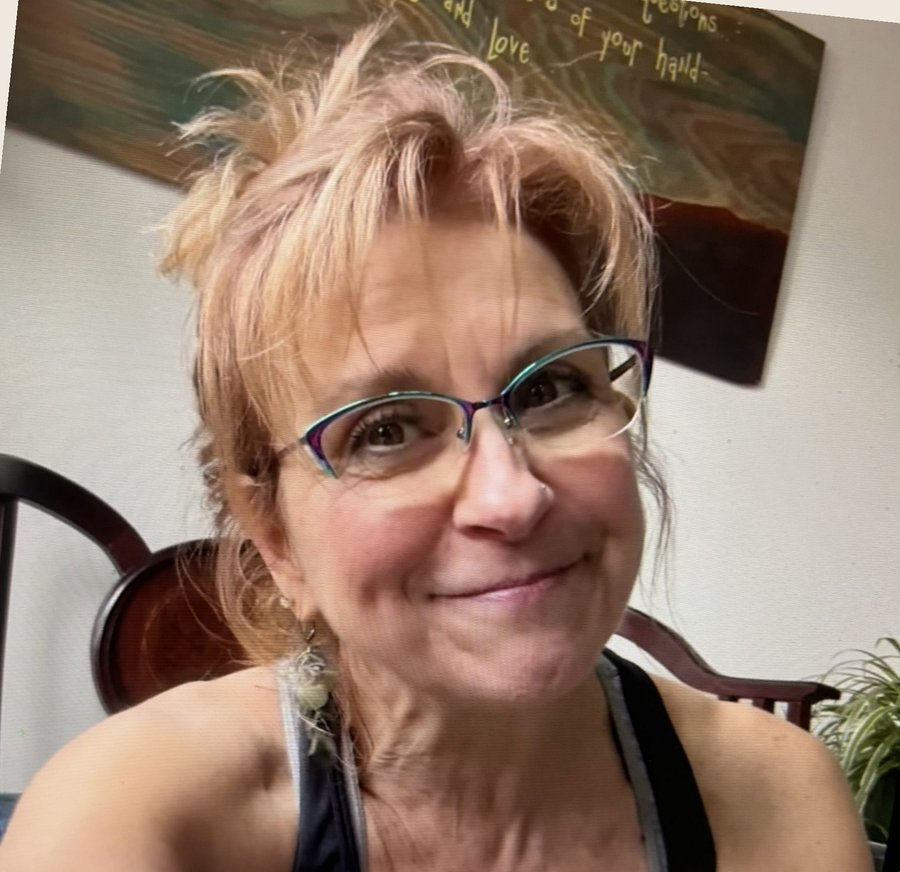
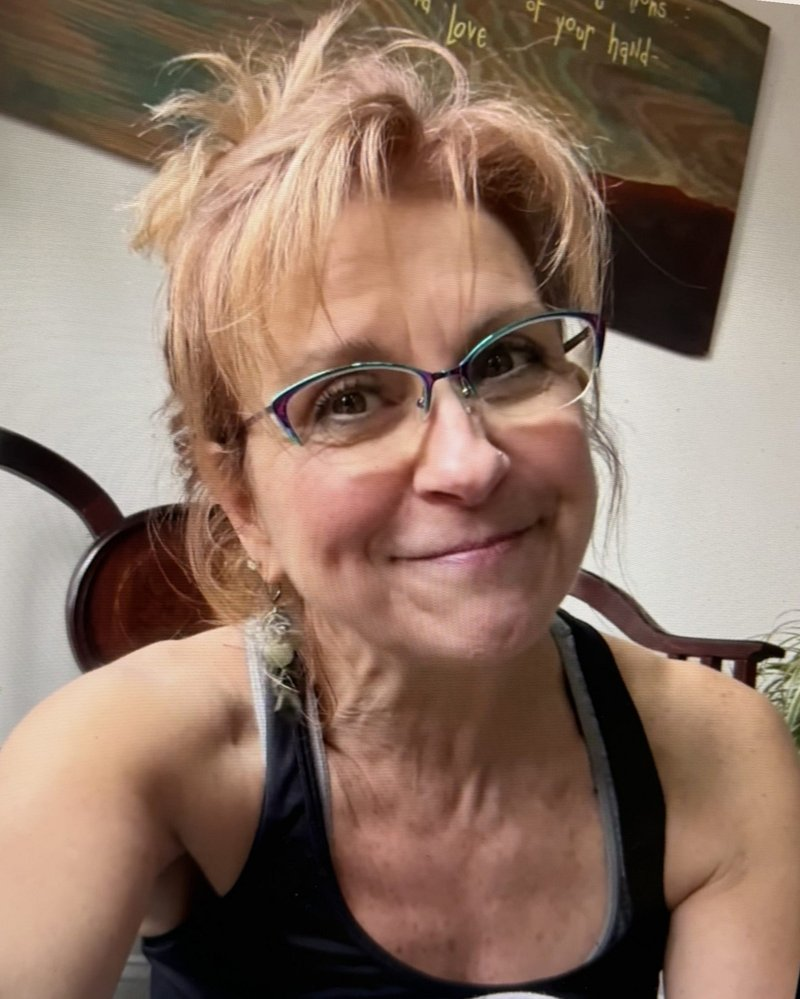
Add files via upload

diff --git a/contact.html b/contact.html
@@ -4,52 +4,22 @@
   <meta charset="UTF-8">
   <meta name="viewport" content="width=device-width, initial-scale=1.0">
   <title>Contact | Denise Souza Integrative Wellness</title>
-  <meta name="description" content="Schedule your free 15-minute consultation with Denise Souza. Get directions, download new client forms, and join the mailing list.">
+  <meta name="description" content="Visit Denise Souza Integrative Wellness in Raleigh, NC. Located inside Health House The Collaborative. Schedule your free consultation by appointment.">
   <link rel="stylesheet" href="css/style.css">
   <style>
     .contact-section {
       background: var(--white);
-      padding: 3.5rem 3rem;
+      padding: 2.5rem;
       display: grid;
-      grid-template-columns: 1fr 1fr;
-      gap: 3rem;
-    }
-    .contact-form label {
-      font-family: Arial, sans-serif;
-      font-size: 11px;
-      letter-spacing: 0.08em;
-      text-transform: uppercase;
-      color: var(--taupe-dark);
-      display: block;
-      margin-bottom: 0.4rem;
-      margin-top: 1.1rem;
-    }
-    .contact-form label:first-child {
-      margin-top: 0;
-    }
-    .contact-form input,
-    .contact-form textarea {
-      width: 100%;
-      font-family: Arial, sans-serif;
-      font-size: 14px;
-      padding: 10px 12px;
-      border: 1px solid var(--taupe);
-      border-radius: 3px;
-      background: var(--cream);
-      color: var(--charcoal);
-    }
-    .contact-form textarea {
-      min-height: 110px;
-      resize: vertical;
-    }
-    .contact-form button {
-      margin-top: 1.5rem;
+      grid-template-columns: repeat(auto-fit, minmax(220px, 1fr));
+      gap: 16px;
+      max-width: 1000px;
+      margin: 0 auto;
     }
     .contact-info-block {
       background: var(--taupe-light);
       border-radius: 4px;
-      padding: 1.75rem;
-      margin-bottom: 1.25rem;
+      padding: 1.5rem;
     }
     .contact-info-block h4 {
       font-family: Arial, sans-serif;
@@ -65,8 +35,23 @@
       color: var(--charcoal);
       line-height: 1.6;
     }
+    .contact-info-block a {
+      color: var(--terra-dark);
+      text-decoration: underline;
+    }
+    .contact-info-block .sub-note {
+      font-size: 12px;
+      color: var(--taupe-dark);
+      margin-top: 0.25rem;
+    }
     .contact-info-block a.btn-outline {
       margin-top: 0.75rem;
+      text-decoration: none;
+    }
+    .map-embed {
+      width: 100%;
+      border: 0;
+      display: block;
     }
   </style>
 </head>
@@ -101,50 +86,30 @@
     <p>Every new client begins with a free 15-minute consultation. No pressure, no commitment.</p>
   </section>
 
-  <!-- CONTACT FORM + INFO -->
+  <!-- CONTACT INFO -->
   <section class="contact-section">
-    <div class="contact-form">
-      <div class="section-label">Send a message</div>
-      <h2 style="font-size: 22px; font-weight: normal; color: var(--charcoal); margin-bottom: 1rem;">Request your free consultation</h2>
-      <form>
-        <label for="name">Name</label>
-        <input type="text" id="name" name="name" placeholder="Your full name">
-
-        <label for="email">Email</label>
-        <input type="email" id="email" name="email" placeholder="[email redacted]">
-
-        <label for="phone">Phone</label>
-        <input type="tel" id="phone" name="phone" placeholder="(___) ___-____">
-
-        <label for="message">What brings you here?</label>
-        <textarea id="message" name="message" placeholder="Tell Denise a little about what you're looking for..."></textarea>
-
-        <button type="submit" class="btn-primary">Send message</button>
-      </form>
+    <div class="contact-info-block">
+      <h4>Location</h4>
+      <p>6837 Falls of Neuse Rd, Ste 106<br>Raleigh, NC 27615</p>
+      <p class="sub-note">Located inside Health House The Collaborative</p>
     </div>
-
-    <div class="contact-details">
-      <div class="contact-info-block">
-        <h4>Location</h4>
-        <p>[ Office address &mdash; Raleigh, NC ]</p>
-      </div>
-      <div class="contact-info-block">
-        <h4>Phone</h4>
-        <p>[ Phone number ]</p>
-      </div>
-      <div class="contact-info-block">
-        <h4>Email</h4>
-        <p>[ Email address ]</p>
-      </div>
-      <div class="contact-info-block">
-        <h4>Office hours</h4>
-        <p>[ Hours by appointment ]</p>
-      </div>
-      <div class="contact-info-block">
-        <h4>New clients</h4>
-        <p>Please print, fill out, and bring your patient intake forms to your appointment, or plan to arrive 15 minutes early to complete them in the office.</p>
-        <a class="btn-outline" href="#">Download new client forms</a>
-      </div>
+    <div class="contact-info-block">
+      <h4>Phone</h4>
+      <p><a href="tel:9196008840">919-600-8840</a></p>
+      <p class="sub-note">No fax</p>
+    </div>
+    <div class="contact-info-block">
+      <h4>Email</h4>
+      <p><a href="mailto:[email redacted]">[email redacted]</a></p>
+    </div>
+    <div class="contact-info-block">
+      <h4>Hours</h4>
+      <p>By appointment only</p>
+    </div>
+    <div class="contact-info-block" style="grid-column: 1 / -1;">
+      <h4>New clients</h4>
+      <p>Please print, fill out, and bring your patient intake forms to your appointment, or plan to arrive 15 minutes early to complete them in the office.</p>
+      <a class="btn-outline" href="https://www.denisesouzaintegrativewellness.com/wp-content/uploads/2021/10/combined_intake_form_1.pdf" target="_blank" rel="noopener">Download new client forms</a>
     </div>
   </section>
 
@@ -156,12 +121,20 @@
 
   <section class="cta-section" style="grid-template-columns: 1fr; text-align: center;">
     <div class="cta-text" style="max-width: 420px; margin: 0 auto;">
-      <a class="btn-primary" href="#">Join the mailing list</a>
+      <a class="btn-primary" href="mailto:[email redacted]?subject=Mailing%20List%20Sign-Up">Join the mailing list</a>
     </div>
   </section>
 
-  <!-- MAP PLACEHOLDER -->
-  <section class="about-img placeholder-img" style="min-height: 280px;"><img src="images/office-exterior.jpg" alt="Office location" onerror="this.parentElement.innerHTML='[ Map / office location ]'"></section>
+  <!-- MAP -->
+  <section>
+    <iframe
+      class="map-embed"
+      height="320"
+      loading="lazy"
+      referrerpolicy="no-referrer-when-downgrade"
+      src="https://www.google.com/maps?q=6837+Falls+of+Neuse+Rd+Ste+106,+Raleigh,+NC+27615&output=embed">
+    </iframe>
+  </section>
 
   <!-- FOOTER -->
   <footer>
@@ -182,8 +155,8 @@
     <div class="footer-col">
       <h4>Connect</h4>
       <a href="contact.html">Free 15-min Consultation</a>
-      <a href="contact.html">New Client Forms</a>
-      <a href="contact.html">Join Mailing List</a>
+      <a href="https://www.denisesouzaintegrativewellness.com/wp-content/uploads/2021/10/combined_intake_form_1.pdf" target="_blank" rel="noopener">New Client Forms</a>
+      <a href="mailto:[email redacted]?subject=Mailing%20List%20Sign-Up">Join Mailing List</a>
     </div>
   </footer>
   <div class="footer-bottom">

diff --git a/css/style.css b/css/style.css
@@ -142,10 +142,19 @@ nav {
   border-radius: 4px;
   min-width: 180px;
   padding: 6px 0;
-  margin-top: 12px;
+  margin-top: 0;
   box-shadow: 0 6px 16px rgba(61, 46, 34, 0.08);
   list-style: none;
   z-index: 200;
+}
+
+.dropdown-menu::before {
+  content: "";
+  position: absolute;
+  top: -12px;
+  left: 0;
+  right: 0;
+  height: 12px;
 }
 
 .has-dropdown:hover .dropdown-menu,
@@ -282,6 +291,7 @@ nav {
 .hero-image {
   background: var(--terra-light);
   min-height: 240px;
+  max-height: 380px;
 }
 
 /* ============================================
@@ -315,13 +325,16 @@ nav {
 .about-section {
   background: var(--white);
   display: grid;
-  grid-template-columns: 1fr 1fr;
+  grid-template-columns: 0.85fr 1.15fr;
 }
 
 .about-img {
   background: var(--taupe-light);
+  aspect-ratio: 4 / 5;
   min-height: 260px;
-  max-height: 340px;
+  max-height: 460px;
+  width: 100%;
+  margin: 0 auto;
 }
 
 .about-text {
@@ -407,7 +420,7 @@ nav {
 }
 
 .service-card-img {
-  height: 96px;
+  height: 170px;
 }
 
 .service-card-body {
@@ -504,6 +517,7 @@ nav {
 .rooted-image {
   background: var(--terra-light);
   min-height: 260px;
+  max-height: 380px;
 }
 
 /* ============================================

diff --git a/about.html b/about.html
@@ -84,7 +84,7 @@
       <div class="cta-card">
         <div class="cta-card-icon">&#128222;</div>
         <h4>Phone</h4>
-        <p>Call to book</p>
+        <p><a href="tel:9196008840" style="color: inherit; text-decoration: underline;">919-600-8840</a></p>
       </div>
       <div class="cta-card">
         <div class="cta-card-icon">&#128337;</div>
@@ -118,8 +118,8 @@
     <div class="footer-col">
       <h4>Connect</h4>
       <a href="contact.html">Free 15-min Consultation</a>
-      <a href="contact.html">New Client Forms</a>
-      <a href="contact.html">Join Mailing List</a>
+      <a href="https://www.denisesouzaintegrativewellness.com/wp-content/uploads/2021/10/combined_intake_form_1.pdf" target="_blank" rel="noopener">New Client Forms</a>
+      <a href="mailto:[email redacted]?subject=Mailing%20List%20Sign-Up">Join Mailing List</a>
     </div>
   </footer>
   <div class="footer-bottom">

diff --git a/index.html b/index.html
@@ -151,7 +151,7 @@
       <div class="cta-card">
         <div class="cta-card-icon">&#128222;</div>
         <h4>Phone</h4>
-        <p>Call to book</p>
+        <p><a href="tel:9196008840" style="color: inherit; text-decoration: underline;">919-600-8840</a></p>
       </div>
       <div class="cta-card">
         <div class="cta-card-icon">&#128337;</div>
@@ -185,8 +185,8 @@
     <div class="footer-col">
       <h4>Connect</h4>
       <a href="contact.html">Free 15-min Consultation</a>
-      <a href="contact.html">New Client Forms</a>
-      <a href="contact.html">Join Mailing List</a>
+      <a href="https://www.denisesouzaintegrativewellness.com/wp-content/uploads/2021/10/combined_intake_form_1.pdf" target="_blank" rel="noopener">New Client Forms</a>
+      <a href="mailto:[email redacted]?subject=Mailing%20List%20Sign-Up">Join Mailing List</a>
     </div>
   </footer>
   <div class="footer-bottom">

diff --git a/rooted-renewal.html b/rooted-renewal.html
@@ -412,7 +412,7 @@
       <div class="cta-card">
         <div class="cta-card-icon">&#128222;</div>
         <h4>Phone</h4>
-        <p>Call to book</p>
+        <p><a href="tel:9196008840" style="color: inherit; text-decoration: underline;">919-600-8840</a></p>
       </div>
       <div class="cta-card">
         <div class="cta-card-icon">&#128337;</div>
@@ -446,8 +446,8 @@
     <div class="footer-col">
       <h4>Connect</h4>
       <a href="contact.html">Free 15-min Consultation</a>
-      <a href="contact.html">New Client Forms</a>
-      <a href="contact.html">Join Mailing List</a>
+      <a href="https://www.denisesouzaintegrativewellness.com/wp-content/uploads/2021/10/combined_intake_form_1.pdf" target="_blank" rel="noopener">New Client Forms</a>
+      <a href="mailto:[email redacted]?subject=Mailing%20List%20Sign-Up">Join Mailing List</a>
     </div>
   </footer>
   <div class="footer-bottom">

diff --git a/services.html b/services.html
@@ -114,7 +114,7 @@
       <div class="cta-card">
         <div class="cta-card-icon">&#128222;</div>
         <h4>Phone</h4>
-        <p>Call to book</p>
+        <p><a href="tel:9196008840" style="color: inherit; text-decoration: underline;">919-600-8840</a></p>
       </div>
       <div class="cta-card">
         <div class="cta-card-icon">&#128337;</div>
@@ -148,8 +148,8 @@
     <div class="footer-col">
       <h4>Connect</h4>
       <a href="contact.html">Free 15-min Consultation</a>
-      <a href="contact.html">New Client Forms</a>
-      <a href="contact.html">Join Mailing List</a>
+      <a href="https://www.denisesouzaintegrativewellness.com/wp-content/uploads/2021/10/combined_intake_form_1.pdf" target="_blank" rel="noopener">New Client Forms</a>
+      <a href="mailto:[email redacted]?subject=Mailing%20List%20Sign-Up">Join Mailing List</a>
     </div>
   </footer>
   <div class="footer-bottom">

diff --git a/testimonials.html b/testimonials.html
@@ -124,7 +124,7 @@
       <div class="cta-card">
         <div class="cta-card-icon">&#128222;</div>
         <h4>Phone</h4>
-        <p>Call to book</p>
+        <p><a href="tel:9196008840" style="color: inherit; text-decoration: underline;">919-600-8840</a></p>
       </div>
       <div class="cta-card">
         <div class="cta-card-icon">&#128337;</div>
@@ -158,8 +158,8 @@
     <div class="footer-col">
       <h4>Connect</h4>
       <a href="contact.html">Free 15-min Consultation</a>
-      <a href="contact.html">New Client Forms</a>
-      <a href="contact.html">Join Mailing List</a>
+      <a href="https://www.denisesouzaintegrativewellness.com/wp-content/uploads/2021/10/combined_intake_form_1.pdf" target="_blank" rel="noopener">New Client Forms</a>
+      <a href="mailto:[email redacted]?subject=Mailing%20List%20Sign-Up">Join Mailing List</a>
     </div>
   </footer>
   <div class="footer-bottom">

diff --git a/thermography.html b/thermography.html
@@ -118,7 +118,7 @@
       <div class="cta-card">
         <div class="cta-card-icon">&#128222;</div>
         <h4>Phone</h4>
-        <p>Call to book</p>
+        <p><a href="tel:9196008840" style="color: inherit; text-decoration: underline;">919-600-8840</a></p>
       </div>
       <div class="cta-card">
         <div class="cta-card-icon">&#128337;</div>
@@ -152,8 +152,8 @@
     <div class="footer-col">
       <h4>Connect</h4>
       <a href="contact.html">Free 15-min Consultation</a>
-      <a href="contact.html">New Client Forms</a>
-      <a href="contact.html">Join Mailing List</a>
+      <a href="https://www.denisesouzaintegrativewellness.com/wp-content/uploads/2021/10/combined_intake_form_1.pdf" target="_blank" rel="noopener">New Client Forms</a>
+      <a href="mailto:[email redacted]?subject=Mailing%20List%20Sign-Up">Join Mailing List</a>
     </div>
   </footer>
   <div class="footer-bottom">